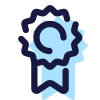
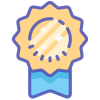
icones novos

diff --git a/frontend/src/styles.scss b/frontend/src/styles.scss
@@ -32,6 +32,39 @@
   --border-color: #e2e8f0;
 }
 
+/* O icone claro de favoritos pessoais preserva contraste no tema escuro. */
+[data-theme="dark"] img[src="jogos-favoritos.png"] {
+  content: url('/jogos-favoritos-tema-escuro.png');
+}
+
+[data-theme="light"] img[src="jogos-monitorados.png"] {
+  content: url('/jogos-monitorados-modo-claro.png');
+}
+
+[data-theme="dark"] img[src="jogos-monitorados.png"] {
+  content: url('/jogos-monitorados-modo-escuro.png');
+}
+
+[data-theme="light"] img[src="store-logos/steam.svg"] {
+  content: url('/steam-modo-claro.png');
+}
+
+[data-theme="dark"] img[src="store-logos/steam.svg"] {
+  content: url('/steam-modo-escuro.png');
+}
+
+[data-theme="light"] img[src="store-logos/xbox.svg"] {
+  content: url('/xbox-modo-claro.png');
+}
+
+[data-theme="dark"] img[src="store-logos/xbox.svg"] {
+  content: url('/xbox-modo-escuro.png');
+}
+
+[data-theme="dark"] img[src="biblioteca.png"] {
+  content: url('/biblioteca-modo-escuro.png');
+}
+
 * { margin: 0; padding: 0; box-sizing: border-box; }
 
 body {

diff --git a/frontend/src/app/pages/profile/profile.ts b/frontend/src/app/pages/profile/profile.ts
@@ -68,7 +68,7 @@ export class Profile implements OnInit, OnDestroy {
       if (!profile?.handle) {
         const base = this.auth.displayName.toLowerCase().normalize('NFD').replace(/[\u0300-\u036f]/g, '').replace(/[^a-z0-9]+/g, '-').replace(/^-+|-+$/g, '') || 'jogador';
         const handle = `${base}-${this.auth.user?.id.slice(0, 4) || 'user'}`;
-        await this.perfisService.salvar({ handle, nomeExibicao: this.auth.displayName, bio: this.bio, publico: false, mostrarHoras: true, mostrarConquistas: true, mostrarBiblioteca: true, mostrarFavoritos: true, mostrarAtividades: true });
+        await this.perfisService.salvar({ handle, nomeExibicao: this.auth.displayName, bio: this.bio, publico: true, mostrarHoras: true, mostrarConquistas: true, mostrarBiblioteca: true, mostrarFavoritos: true, mostrarAtividades: true });
         profile = await this.perfisService.proprio();
       }
       if (profile?.handle) { await this.router.navigateByUrl(`/${profile.handle}`, { replaceUrl: true }); return true; }

diff --git a/frontend/src/app/pages/public-profile/public-profile.scss b/frontend/src/app/pages/public-profile/public-profile.scss
@@ -73,7 +73,6 @@
 .stat-card strong { display: block; margin: 4px 0; font-size: 28px; }
 .stat-icon { display: grid; flex: 0 0 auto; width: 52px; height: 52px; place-items: center; border-radius: 50%; background: rgba(41, 168, 224, .14); }
 .stat-icon img { width: 34px; height: 34px; object-fit: contain; }
-.stat-icon.trophy { background: rgba(245, 158, 11, .15); }
 .profile-grid { display: grid; grid-template-columns: minmax(520px, 1.15fr) minmax(380px, .85fr); gap: 14px; }
 .panel { padding: 20px; }
 .side-stack { display: flex; flex-direction: column; gap: 14px; }

diff --git a/frontend/src/app/services/preferences.ts b/frontend/src/app/services/preferences.ts
@@ -27,7 +27,7 @@ const DEFAULT_PREFERENCES: UserPreferences = {
 };
 
 const DEFAULT_PRIVACY: PrivacyPreferences = {
-  publicProfile: false,
+  publicProfile: true,
   showGameHours: true,
   showAchievements: true,
   showLibrary: true,

diff --git a/frontend/src/app/pages/profile/profile.scss b/frontend/src/app/pages/profile/profile.scss
@@ -343,7 +343,6 @@
     object-fit: contain;
   }
 
-  &.trophy { background: rgba(245,158,11,0.15); }
 }
 
 .profile-grid {

diff --git a/doc.md b/doc.md
@@ -272,9 +272,10 @@ sync_locks
 - A URL canonica preserva as tres abas do perfil: Resumo, Jogos favoritos e Biblioteca. O resumo contem os cards de favoritos, horas e conquistas, alem dos paineis de favoritos pessoais, biblioteca e atividade recente; a atividade permanece como placeholder ate possuir eventos persistidos.
 - A topbar resolve o identificador antes de navegar, evitando renderizar `/perfil` como tela intermediaria. A pagina publica aguarda a resposta da API antes de exibir indisponibilidade.
 - A rota `/perfil` e apenas uma ponte autenticada: cria um identificador temporario seguro quando necessario e redireciona para a URL canonica `/<identificador>`. Perfis privados continuam visiveis somente pelo proprio dono autenticado.
-- O perfil e privado por padrao. E-mail, UUID, jogos monitorados e dados de conexao nunca sao expostos.
+- Novos perfis sao publicos por padrao, mas podem ser privados em Configuracoes > Privacidade. E-mail, UUID, jogos monitorados e dados de conexao nunca sao expostos.
 - O usuario escolhe se libera horas jogadas, conquistas e biblioteca. O backend filtra os dados antes de responder a rota publica.
 - A persistencia fica em `profiles`; executar `backend-java/sql/20260711_perfis_publicos.sql` no Supabase antes do deploy.
+- Em bancos ja existentes, executar tambem `backend-java/sql/20260712_perfis_publicos_por_padrao.sql`. A migracao nao altera a visibilidade dos perfis ja criados.
 - Avatares publicos usam o bucket `avatars` do Supabase Storage. Executar tambem `backend-java/sql/20260712_avatars_perfil.sql`; o upload aceita JPEG, PNG e WebP de ate 2 MB e cada usuario so pode gravar em sua propria pasta.
 - A API de perfis usa `PUT /api/perfis/me` e `PUT /api/perfis/me/avatar`; a politica CORS global permite `PUT` para a origem configurada em `CORS_ALLOWED_ORIGINS`.
 
@@ -300,8 +301,12 @@ sync_locks
 - `horas-jogadas.png`: estatisticas de horas jogadas.
 - `conquistas.png`: estatisticas de conquistas.
 - `biblioteca.png`: resumo e abas da biblioteca sincronizada.
+- `biblioteca-modo-escuro.png`: variacao da biblioteca usada no tema escuro.
 - `jogos-favoritos.png`: favoritos pessoais do perfil.
+- `jogos-favoritos-tema-escuro.png`: variacao usada apenas no tema escuro para melhorar o contraste dos favoritos pessoais.
 - `jogos-monitorados.png`: monitoramento de precos e rota `/monitorados`.
+- `jogos-monitorados-modo-claro.png` e `jogos-monitorados-modo-escuro.png`: variacoes do icone de monitoramento por tema.
+- `steam-modo-claro.png`, `steam-modo-escuro.png`, `xbox-modo-claro.png` e `xbox-modo-escuro.png`: variacoes dos icones de plataforma por tema.
 
 - Sem scraping de sites.
 - Sem multi-moeda funcional por enquanto.
